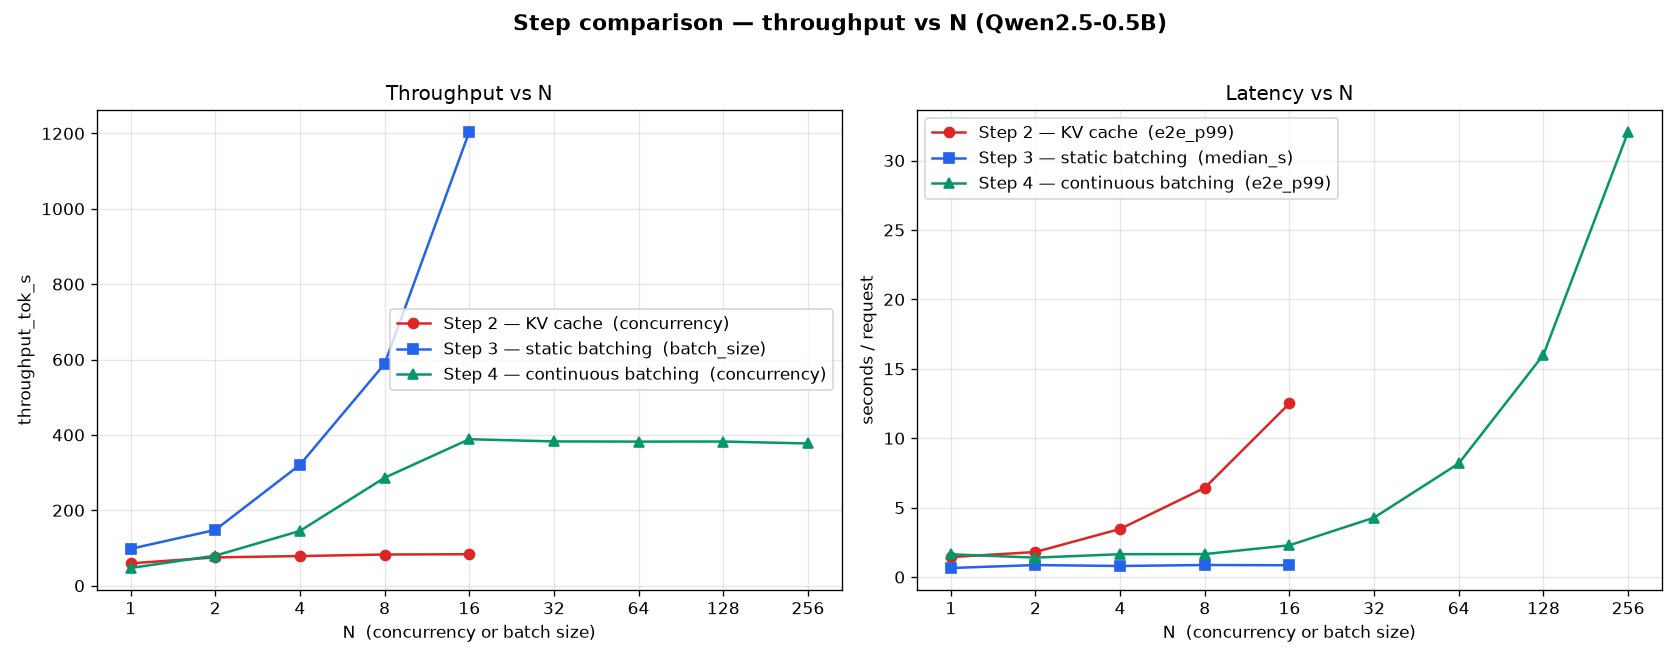
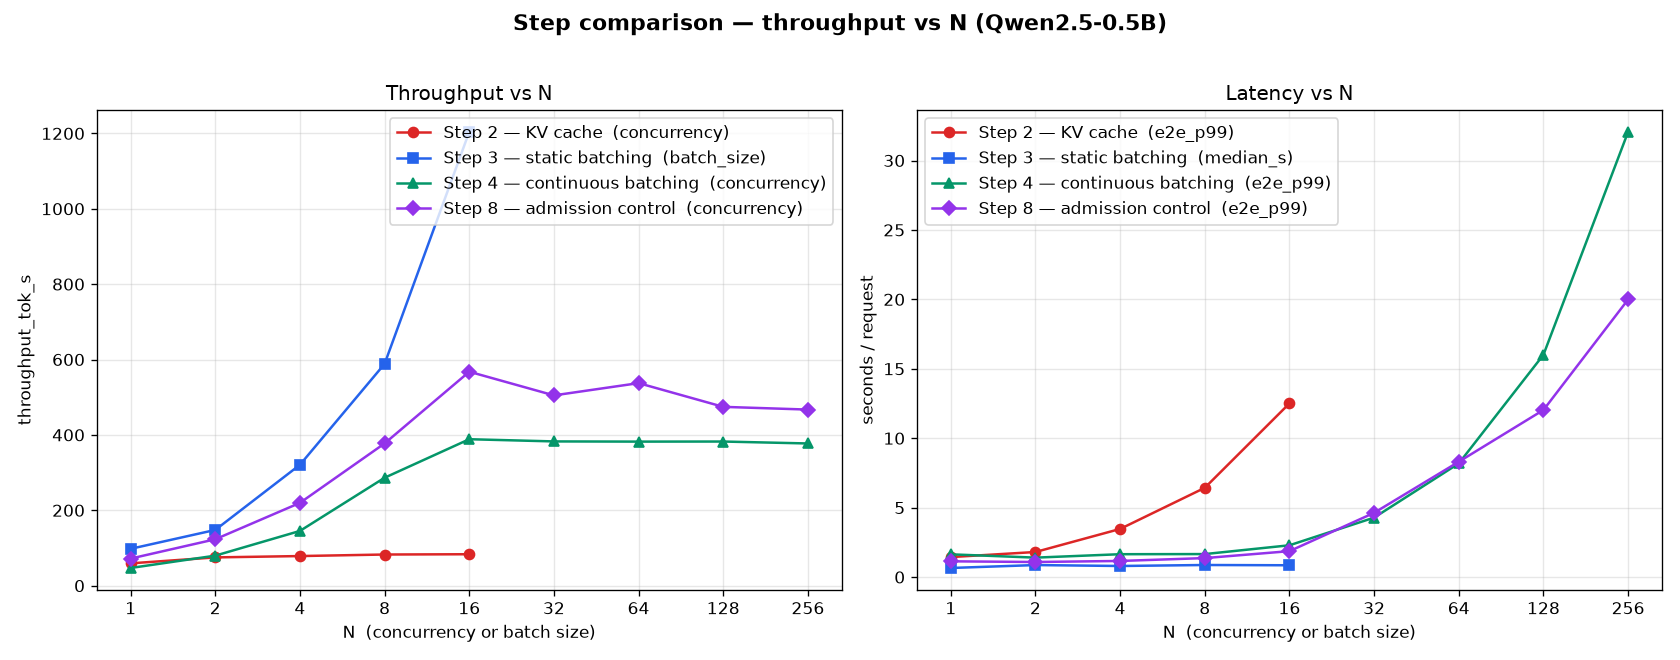
feat: enhance continuous batching engine with admission control and model loading parameters

diff --git a/app/batching/engine.py b/app/batching/engine.py
@@ -1,14 +1,13 @@
-import typing
-from datetime import datetime
 import asyncio
+from datetime import datetime
+import torch
+import typing
 import uuid
 
-import torch
-
+from app import logger
 from app.api.utils import sample_next_token
 from app.model import ChatModel
 from app.request import InferenceRequest
-from app import logger
 
 class ContinuousBatchingEngine:
     def __init__(self, model: ChatModel, batch_size: int = 4, max_length: int = 50):
@@ -16,6 +15,7 @@ class ContinuousBatchingEngine:
         self.model = model
         self.batch_size = batch_size
         self.max_length = max_length
+        self.max_waiting_requests = 4 * self.batch_size
         self.waiting_requests: typing.List[InferenceRequest] = []
         self.active_requests: typing.List[InferenceRequest] = []
         self.attn_mask = None
@@ -48,7 +48,7 @@ class ContinuousBatchingEngine:
         ).to(self.model.device)
 
     def _prefill(self) -> torch.Tensor:
-        logger.info(f"Prefilling for {self.active_requests_count} active requests.")
+        # logger.info(f"Prefilling for {self.active_requests_count} active requests.")
         # left pad every active reqs full tokens to max length; req.tokens is a list of token ids
         maxlen = max(len(req.tokens) for req in self.active_requests)
         padded_tokens = [
@@ -61,12 +61,12 @@ class ContinuousBatchingEngine:
 
         self.attn_mask = inputs["attention_mask"]
 
-        logger.info(f"Forward pass for {self.active_requests_count} active requests.")
+        # logger.info(f"Forward pass for {self.active_requests_count} active requests.")
         logits, past_key_values = self.model.forward(inputs)
         return logits, past_key_values
     
     def _decode(self, past_key_values) -> typing.Tuple[torch.Tensor, typing.Any]:
-        logger.info(f"Decoding for {self.active_requests_count} active requests.")
+        # logger.info(f"Decoding for {self.active_requests_count} active requests.")
         # feed the last token and kv cache of each active request to the model
         last_tokens = torch.tensor(
             [[req.tokens[-1]] for req in self.active_requests],
@@ -77,6 +77,8 @@ class ContinuousBatchingEngine:
         return logits, past_key_values
 
     async def submit(self, prompt: str, max_new_tokens: int, temperature: float = 0.6, top_p: float = 0.9) -> InferenceRequest:
+        if self.waiting_requests_count >= self.max_waiting_requests:
+            raise RuntimeError(f"Too many waiting requests ({self.waiting_requests_count}). Please try again later.")
         logger.info(f"Submitting new request with prompt: {prompt[:10]} and max_new_tokens: {max_new_tokens}")
         inputs = self._tokenize_prompts(prompt)
         request = InferenceRequest(
@@ -113,7 +115,7 @@ class ContinuousBatchingEngine:
                 while self.active_requests_count < self.batch_size and self.waiting_requests:
                     request = self.waiting_requests.pop(0)
                     request.update_status("active")
-                    logger.info(f"Moving request {request.request_id} to active requests.")
+                    # logger.info(f"Moving request {request.request_id} to active requests.")
                     self.active_requests.append(request)
                     self.dirty = True
 
@@ -134,27 +136,26 @@ class ContinuousBatchingEngine:
         
         # prefill if self.dirty, else decode
         if self.dirty:
-            logger.info(f"Dirty flag is set. Prefilling for active requests.")
+            # logger.info(f"Dirty flag is set. Prefilling for active requests.")
             logits, past_key_values = self._prefill()
             self.past_key_values = past_key_values
             self.dirty = False
         else:
-            logger.info(f"Dirty flag is not set. Decoding for active requests.")
+            # logger.info(f"Dirty flag is not set. Decoding for active requests.")
             logits, past_key_values = self._decode(self.past_key_values)
             self.past_key_values = past_key_values
-
 
         for i, request in enumerate(self.active_requests):
             next_ids = sample_next_token(logits[i, -1, :], temperature=request.temperature, top_p=request.top_p)
             next_token_id = next_ids.item()
             if (str(next_token_id) == str(self.model.eos_token)) or ((len(request.tokens) - request.prompt_len) >= request.max_tokens):
-                logger.info(f"Request {request.request_id} finished. Marking as finished and removing from active requests.")
+                # logger.info(f"Request {request.request_id} finished. Marking as finished and removing from active requests.")
                 request.mark_finished()
                 request.add_token(None)
                 request.queue.put_nowait(None)
                 self.dirty = True
             else:
-                logger.info(f"Request {request.request_id} generated token id {next_token_id}. Adding to tokens.")
+                # logger.info(f"Request {request.request_id} generated token id {next_token_id}. Adding to tokens.")
                 request.add_token(next_token_id)
                 request.queue.put_nowait(next_token_id)
 

diff --git a/app/api/inference.py b/app/api/inference.py
@@ -15,7 +15,7 @@ from app.batching.engine import ContinuousBatchingEngine
 router = APIRouter()
 
 @router.post("/load")
-async def load_model(request: Request, model_name: str = "Qwen/Qwen2.5-0.5B"):
+async def load_model(request: Request, batch_size: int = 16, model_name: str = "Qwen/Qwen2.5-0.5B", max_length: int = 50):
     try:
         model = ChatModel(model_name, device=get_device())
         if request.app.state.model is None:
@@ -24,11 +24,19 @@ async def load_model(request: Request, model_name: str = "Qwen/Qwen2.5-0.5B"):
         request.app.state.model[model_name] = model
         logger.info(f"Model '{model_name}' loaded successfully.")
         logger.info(f"Initializing ContinuousBatchingEngine for model '{model_name}'.")
-        engine = ContinuousBatchingEngine(model=model, batch_size=8, max_length=50)
+        engine = ContinuousBatchingEngine(model=model, batch_size=batch_size, max_length=max_length)
         logger.info(f"Starting continuous batching engine for model '{model_name}'.")
         engine.start()
         request.app.state.engine[model_name] = engine
-        return JSONResponse(content={"message": f"Model '{model_name}' loaded successfully. Continuous batching engine started.", "engine_id": engine.id, "model_eos_token": model.eos_token})
+        return JSONResponse(content={
+            "message": f"Model '{model_name}' loaded successfully. Continuous batching engine started.",
+            "engine_id": engine.id,
+            "model_eos_token": model.eos_token,
+            "model_pad_token": model.pad_token,
+            "model_device": str(model.device),
+            "batch_size": engine.batch_size,
+            "max_length": engine.max_length
+        })
     except Exception as e:
         trace = traceback.format_exc()
         logger.error(f"Error loading model '{model_name}': {trace}")
@@ -117,7 +125,7 @@ async def generate_text_continuous_batch(request: Request, model_name: str = "Qw
         logger.info(f"Continuous batch text generation with model '{model_name}' for input: {input_text}")
         if not engine:
             raise HTTPException(status_code=400, detail="Continuous batching engine not found for the specified model.")
-        
+
         req = await engine.submit(prompt=input_text, max_new_tokens=max_length, temperature=temperature, top_p=top_p)
 
         async def stream_generator():
@@ -131,6 +139,10 @@ async def generate_text_continuous_batch(request: Request, model_name: str = "Qw
                     await asyncio.sleep(0.1)
         
         return StreamingResponse(stream_generator(), media_type="text/plain")
+    except RuntimeError as e:
+        logger.error(f"Error submitting request to continuous batching engine for model '{model_name}': {str(e)}")
+        raise HTTPException(status_code=429, detail=str(e))
     except Exception as e:
         trace = traceback.format_exc()
         logger.error(f"Error in continuous batch text generation with model '{model_name}': {trace}")
+        return JSONResponse(status_code=500, content={"detail": str(e), "trace": trace})

diff --git a/app/request.py b/app/request.py
@@ -27,7 +27,6 @@ class InferenceRequest:
         self.prompt = str(prompt)
         self.prompt_tokens = prompt_tokens
         self.prompt_len = prompt_len
-        self.prompt_len = 0
         self.tokens = tokens
         self.temperature = temperature
         self.top_p = top_p

diff --git a/PROGRESS.md b/PROGRESS.md
@@ -12,11 +12,11 @@ limited topics Claude quizzes me on (no code). See [README](README.md#benchmarks
 | 2 | KV cache + real streaming — `/generate-stream` | ✅ done | `benchmarks/step2_kv_cache.{json,png}` |
 | 3 | Static batching — `/generate-batch` | ✅ done | `benchmarks/step3_batching.{json,png}` |
 | 4 | Continuous / in-flight batching (scheduler + queue) | ✅ done | `app/batching/engine.py`, `benchmarks/step4_continuous_batching.{json,png}` |
-| 5 | Paged / block KV cache (block allocator) | ⬜ **next** | — |
-| 6 | Prefix caching (shared-prefix KV reuse) | ⬜ todo | — |
-| 7 | Speculative decoding (draft + verify) | ⬜ todo | — |
-| 8 | Scheduling & admission control (priorities, chunked prefill) | ⬜ todo | — |
-| 9 | Serve a quantized model (library quant + KV quant via `/load`) | ⬜ todo | — |
+| 5 | Paged / block KV cache (block allocator) | 🔎 explored → read track | see note |
+| 6 | Prefix caching (shared-prefix KV reuse) | ⏸ deferred (needs cache surgery) | — |
+| 7 | Speculative decoding (draft + verify) | ⏸ deferred (needs cache surgery) | — |
+| 8 | Admission control (batch cap + bounded queue → 429) | ✅ done | `benchmarks/step8_admission_control.{json,png}` |
+| 9 | Serve a quantized model (library quant + KV quant via `/load`) | ⬜ **next** | — |
 | 10 | Attention-variant model swap (GQA/MQA, sliding window) | ⬜ todo | — |
 | 11 | Compilation (`torch.compile` + CUDA graphs) | ⬜ todo | — |
 | 12 | Observability & SLO tuning (prometheus + Pareto/goodput) | ⬜ todo | — |
@@ -81,6 +81,33 @@ limited topics Claude quizzes me on (no code). See [README](README.md#benchmarks
     (guarded, skip after eviction); set `padding_side` on the tokenizer; finish on *generated* count;
     re-prefill from full `req.tokens` (not the prompt) so rebatch keeps context; sampling (not argmax)
     to avoid the base model's greedy echo.
+
+### Step 5 — paged / block KV cache 🔎 explored, not shipped (→ read track)
+- Attempted the two pieces on HF's `DynamicCache`: **evict** = slice finished rows out; **admit** =
+  prefill only the new request and **splice** its KV in (left-pad seq dim, cat on batch dim). Both are
+  doable but require reaching into `DynamicCache.key_cache`/`.value_cache` internals — fragile.
+- Also tried **auto-sizing `batch_size`** from VRAM: analytical (weights + KV + activation) over-predicted
+  wildly (8192!), a profiling probe of one prefill still over-predicted (230 vs real OOM at ~32).
+- **Why it's parked:** the pure-Python-on-HF version can't win. True paging needs a scatter-read
+  attention **kernel** (read track) so KV lives in fixed non-contiguous blocks. The payoff of paging is
+  **memory determinism**, not speed: fixed blocks kill fragmentation → peak memory becomes exactly
+  `num_blocks × block_bytes`; and no recompute-on-rebatch means the only transient is one decode step.
+  On a fragmenting allocator with variable-length KV + recompute transients, peak memory is *not*
+  perfectly calculable — which is the whole reason PagedAttention exists. Lesson learned; build deferred
+  to the kernel/interview track.
+
+### Step 8 — admission control ✅
+- `batch_size` cap on the active batch + bounded `waiting_requests` (`max_waiting = 4 × batch_size`);
+  `submit` raises when the queue is full → endpoint returns **HTTP 429** (fixed the swallowed-into-500
+  bug: `HTTPException` is an `Exception`, so the generic handler must re-raise it, not wrap it).
+- Result vs step 4 (both batch_size=16, sweep to conc 256): where the earlier auto-sized run OOM'd at 32,
+  admission control **degrades gracefully to 256** — throughput holds ~450–570 tok/s, TPOT flat ~0.03s,
+  and overflow is shed as clean 429s (2430 @ 128, 1367 @ 256). The win isn't higher throughput; it's a
+  **bounded queue + explicit load-shedding** instead of an unbounded queue / OOM.
+- Steps 6 (prefix caching) & 7 (speculative decoding) deferred — both need the same HF `DynamicCache`
+  surgery parked in step 5 (splice a shared prefix / roll back rejected draft tokens).
+- Optional hardening not done: `Retry-After` on the 429, `uvicorn --limit-concurrency` front door,
+  `try/except` around `_step` so one bad step can't kill the engine loop.
 
 ## Standalone experiments (done, off the build path)
 

diff --git a/README.md b/README.md
@@ -141,30 +141,3 @@ request is batched, vs step 2's 14× blow-up. TTFT is ~0.08s until the knee, the
 (→25s at conc 256) as requests queue for a slot. So past the knee you buy only latency, not
 throughput — the SLO operating point is ≈ the knee. (At concurrency 1, CB is slightly slower
 than step 2: engine overhead with no batch to amortize.)
-
-### Quantization (standalone experiment — memory vs speed)
-
-By-hand symmetric per-channel weight-only quantization of every `nn.Linear`
-(`quntization_script.py`); int8 stored directly, int4 packed two-per-byte.
-Measured on DeepSeek-R1-Distill-Qwen-1.5B, 128 tokens (`benchmark_quantized.py`):
-
-```bash
-python benchmark_quantized.py --model deepseek-ai/DeepSeek-R1-Distill-Qwen-1.5B --variants fp16,int8,int4
-python scripts/plot_quantized.py --results benchmarks/step4_quantization.json
-```
-
-![Quantization — memory vs speed](benchmarks/step4_quantization.png)
-
-| variant | stored weights | peak VRAM | tok/s |
-|--------:|------:|------:|------:|
-| fp16 | 3554 MB | 3570 MB | 82.3 |
-| int8 | 2247 MB | 2436 MB | 12.8 |
-| int4 | 1591 MB | 1740 MB | 7.4 |
-
-**Takeaways:** a deliberate *negative* result. Memory falls (~2.2× at int4 — capped
-because the bf16 embeddings/lm_head are a large floor for a 150k-vocab model), but
-**decode gets dramatically slower** (int8 6.4×, int4 11×): naive dequant rebuilds the
-full fp weight (and unpacks int4) every forward in eager PyTorch, dwarfing the matmul.
-Quantization is a *memory* win, not a speed win — until the dequant is fused into the
-matmul kernel. Serving a quantized model is build **step 9**; the fusion/kernel side
-lives in the read & interview track.
